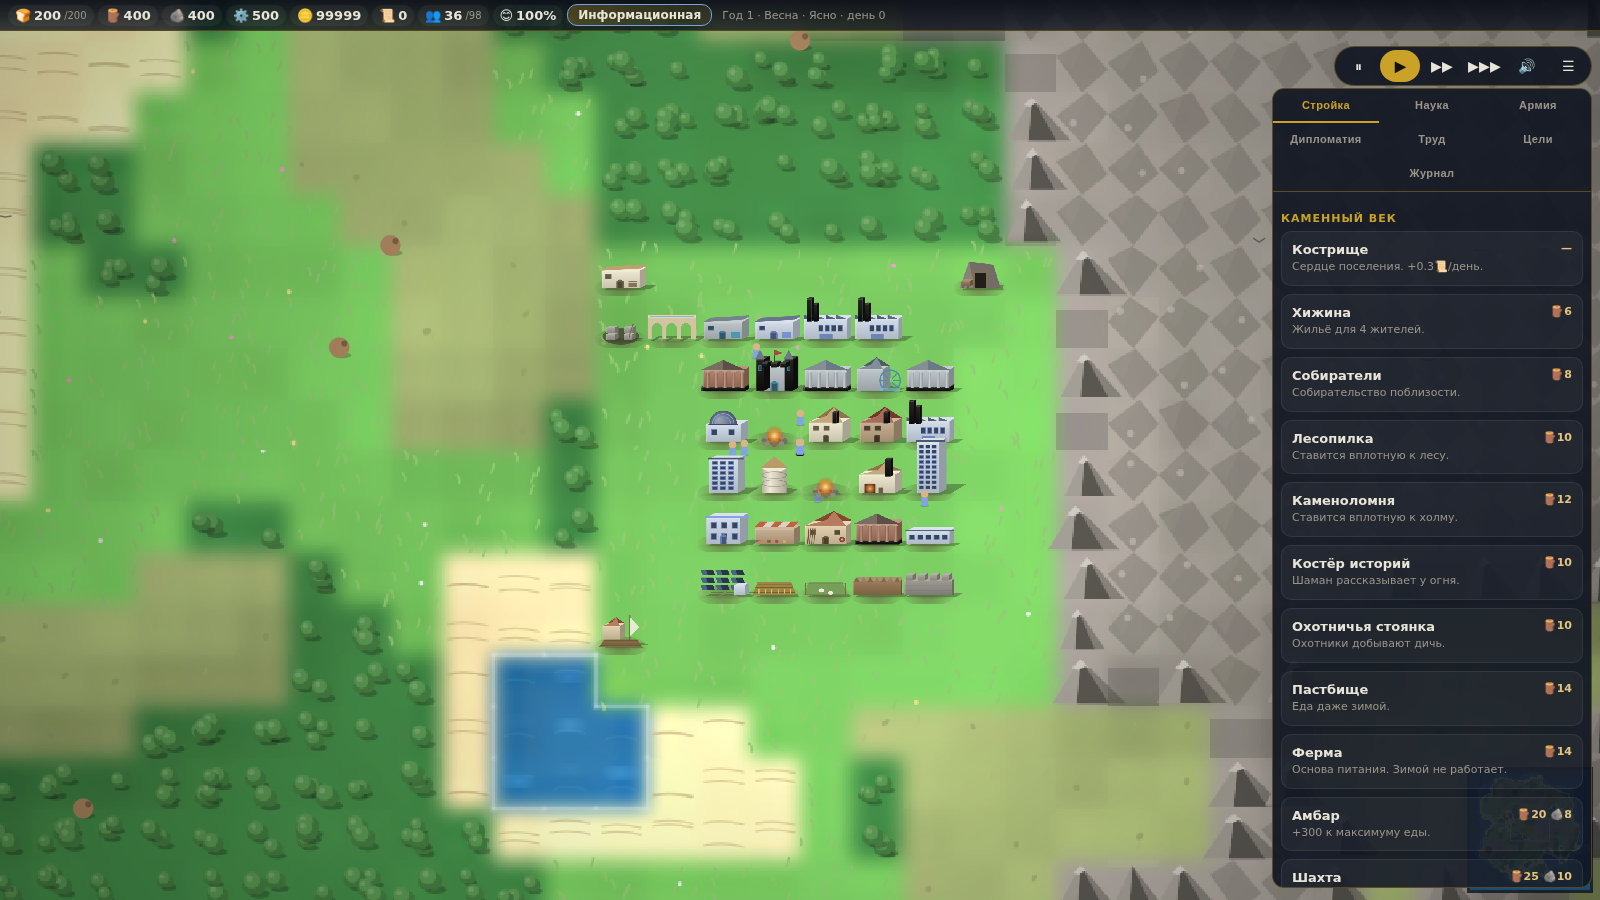
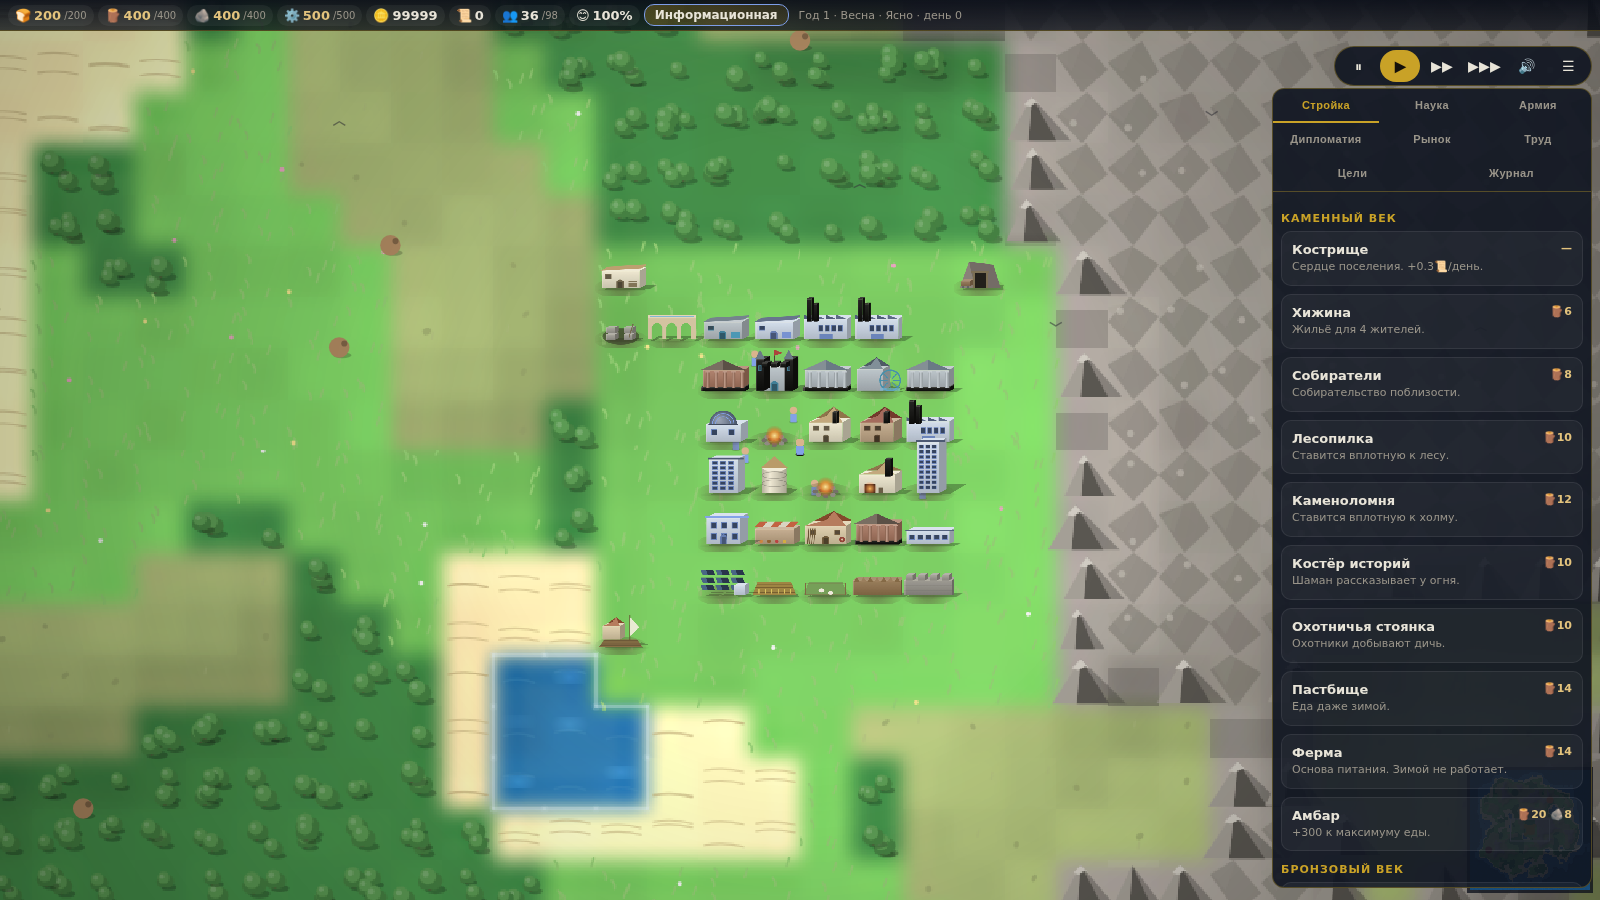
U16 ПОДКЛЮЧЁН: вкладка «Рынок» появилась в игре
Первая интеграция модуля в живую игру. В hud.js добавлены импорт, вкладка
между Дипломатией и Трудом, состояние панели в конструкторе, метод
panel_market() и вызов bindMarketPanel в конце bindPanel.

Панель намеренно использует собственный атрибут data-market: существующие
обработчики [data-sell]/[data-buy] вешаются через c.onclick и затёрли бы
обработчик панели, из-за чего любая кнопка продавала бы ровно 20 единиц
вместо выбранного лота.

Теперь в игре реально можно торговать: курсы, продажа и покупка на 20 и 100,
караваны и договоры. До этого здание рынка строилось, описание обещало обмен,
цель игры требовала его возвести — а кнопки «продать» не существовало.

Тесты 18/18, консоль чистая, 61 FPS.

Claude-Session: https://claude.ai/code/session_01A6YrcifM54qxcWsSEjEaM2

diff --git a/frontier.html b/frontier.html
@@ -5505,12 +5505,296 @@ ${s}`, "console");
     }
   };
 
+  // app/src/ui/panel_market.js
+  var TRADE_RES = Object.keys(MARKET_BASE);
+  var LOTS = [20, 100];
+  var BUY_MARKUP = 1.25;
+  var CARAVAN_PERIOD = 15;
+  var HIST_LEN = 12;
+  var FLAT = 0.02;
+  var RES_META = Object.fromEntries(RES.map((r) => [r.id, r]));
+  function createMarketPanelState() {
+    return { v: 1, hist: [] };
+  }
+  function observeMarket(state, sim2) {
+    if (!state || !sim2) return state;
+    if (!Array.isArray(state.hist)) state.hist = [];
+    const day = Math.floor(sim2.day || 0);
+    const last2 = state.hist[state.hist.length - 1];
+    if (last2 && last2.day === day) return state;
+    if (last2 && day < last2.day) state.hist.length = 0;
+    const p = {};
+    for (const id of TRADE_RES) p[id] = rawPrice(sim2, id);
+    state.hist.push({ day, p });
+    if (state.hist.length > HIST_LEN) state.hist.shift();
+    return state;
+  }
+  function rawPrice(sim2, resId) {
+    const prices = sim2 && sim2.market ? sim2.market.prices : null;
+    const p = prices ? prices[resId] : void 0;
+    return typeof p === "number" && isFinite(p) ? p : MARKET_BASE[resId];
+  }
+  function priceTrend(sim2, resId, state) {
+    const base = MARKET_BASE[resId];
+    const price = rawPrice(sim2, resId);
+    const ratio = base ? price / base : 1;
+    const out = {
+      price,
+      base,
+      ratio,
+      pct: Math.round((ratio - 1) * 100),
+      dir: ratio > 1 + FLAT ? 1 : ratio < 1 - FLAT ? -1 : 0,
+      recent: 0,
+      days: 0
+    };
+    const hist = state && Array.isArray(state.hist) ? state.hist : [];
+    if (hist.length >= 2) {
+      const first = hist[0];
+      const was = Number(first.p[resId]);
+      if (was > 0) {
+        const d = price / was - 1;
+        out.recent = d > FLAT ? 1 : d < -FLAT ? -1 : 0;
+        out.days = Math.max(1, Math.floor(sim2.day || 0) - first.day);
+      }
+    }
+    return out;
+  }
+  function marketQuote(sim2, resId, state) {
+    const meta = RES_META[resId] || { icon: "", ru: resId };
+    const rate = sim2.marketRate(resId);
+    const have = Math.floor(sim2.res[resId] || 0);
+    const cap = sim2.resCap && isFinite(sim2.resCap[resId]) ? sim2.resCap[resId] : Infinity;
+    const room = Math.max(0, Math.floor(cap - (sim2.res[resId] || 0)));
+    const gold = sim2.res.gold || 0;
+    const t = priceTrend(sim2, resId, state);
+    const lots = LOTS.map((n) => {
+      const income = n * rate;
+      const price = n * rate * BUY_MARKUP;
+      return {
+        n,
+        income,
+        price,
+        canSell: have >= n,
+        canBuy: gold >= price && room >= n,
+        // Причина всегда одна и самая важная: нет товара / нет денег / некуда класть.
+        buyWhy: room < n ? "склад полон" : gold < price ? "мало 🪙" : ""
+      };
+    });
+    return { id: resId, icon: meta.icon, ru: meta.ru, rate, buyRate: rate * BUY_MARKUP, have, cap, room, trend: t, lots };
+  }
+  function caravanStatus(sim2) {
+    if (!sim2.techs || !sim2.techs.has("trade")) {
+      return { active: false, markets: 0, daysLeft: 0, gold: 0, period: CARAVAN_PERIOD, boosts: [] };
+    }
+    const markets = sim2.countBuilding("market");
+    let gold = 0.6 * markets * sim2.globalMult("gold");
+    const boosts = [];
+    if (sim2.hasBuilding("shipyard")) {
+      gold *= 1.5;
+      boosts.push("Верфь ×1.5");
+    }
+    if (sim2.hasBuilding("train_station")) {
+      gold *= 2;
+      boosts.push("Вокзал ×2");
+    }
+    if (sim2.hasBuilding("airport")) {
+      gold *= 2;
+      boosts.push("Аэропорт ×2");
+    }
+    if (sim2.techs.has("internet")) {
+      gold *= 1.25;
+      boosts.push("Интернет ×1.25");
+    }
+    const daysLeft = Math.max(0, Math.ceil(sim2.caravanTimer ?? CARAVAN_PERIOD));
+    return { active: markets > 0, markets, daysLeft, gold, period: CARAVAN_PERIOD, boosts };
+  }
+  function tradeTreaties(sim2) {
+    const list = Array.isArray(sim2.treaties) ? sim2.treaties : [];
+    return list.map((t) => {
+      const f = typeof sim2.faction === "function" ? sim2.faction(t.b) : null;
+      const def = f && f.def || FACTIONS.find((x) => x.id === t.b) || null;
+      return {
+        fid: t.b,
+        name: def ? def.name : "Неизвестный сосед",
+        leader: def ? def.leader : "",
+        color: def ? def.color : "#c9a227",
+        atWar: (sim2.wars || []).some((w) => w.fid === t.b)
+      };
+    });
+  }
+  function marketBlocker(sim2) {
+    if (sim2.hasBuilding("market")) return null;
+    const def = BUILDINGS.market;
+    if (!sim2.techs.has("trade")) {
+      const tech = TECHS.find((t) => t.id === "trade");
+      return { kind: "tech", tech: tech ? tech.name : "Торговля", cost: sim2.techCost(tech), buildCost: def.cost };
+    }
+    const site = sim2.buildings.find((b) => b.id === "market" && !b.destroyed && !b.done);
+    if (site) {
+      const pct = Math.round(site.progress / site.buildDays * 100);
+      return { kind: "building", progress: Math.max(0, Math.min(99, pct)), buildCost: def.cost };
+    }
+    return { kind: "place", lack: sim2.lackCost(def.cost), buildCost: def.cost };
+  }
+  function renderMarketPanel(sim2, state = null) {
+    if (!sim2) return "";
+    observeMarket(state, sim2);
+    const blocker = marketBlocker(sim2);
+    if (blocker) return _renderClosed(sim2, blocker);
+    let html = _renderHeader(sim2);
+    html += '<h4 class="group">Курсы и сделки</h4>';
+    for (const id of TRADE_RES) html += _renderRow(marketQuote(sim2, id, state));
+    html += _renderTrade(sim2);
+    return html;
+  }
+  function _renderClosed(sim2, b) {
+    const cost = _costStr(sim2, b.buildCost);
+    let head = "";
+    if (b.kind === "tech") {
+      head = `<div class="card"><div class="ttl"><span>Рынок закрыт</span><span class="cost">📜${b.cost}</span></div>
+      <div class="desc">Обмен ресурсов открывает технология «${b.tech}» на вкладке «Наука».</div>
+      <div class="reason">Сначала изучите «${b.tech}», затем постройте Рынок: ${cost}</div></div>`;
+    } else if (b.kind === "building") {
+      head = `<div class="card"><div class="ttl"><span>Рынок строится</span><span class="cost">${b.progress}%</span></div>
+      <div class="desc">Торги откроются, как только каменщики закончат. Приставьте больше рабочих на вкладке «Труд» — приоритет «Стройка».</div></div>`;
+    } else {
+      head = `<div class="card"><div class="ttl"><span>Рынка нет</span><span class="cost">${cost}</span></div>
+      <div class="desc">Постройте Рынок на вкладке «Стройка»: особой клетки он не требует, ставится где угодно в поселении.</div>
+      ${b.lack ? `<div class="reason">Не хватает: ${b.lack}</div>` : '<div class="desc">Ресурсов на постройку хватает.</div>'}</div>`;
+    }
+    return head + `<div class="card"><div class="ttl"><span>Что даёт Рынок</span></div>
+    <div class="kv"><span>Продажа</span><span>Излишки 🍞🪵🪨⚙ в 🪙</span></div>
+    <div class="kv"><span>Покупка</span><span>Нехватка за 🪙 (дороже на 25%)</span></div>
+    <div class="kv"><span>Караваны</span><span>🪙 раз в ${CARAVAN_PERIOD} дней</span></div>
+    <div class="kv"><span>Договоры</span><span>Снимают наценку 30%</span></div></div>`;
+  }
+  function _renderHeader(sim2) {
+    const treaties = tradeTreaties(sim2);
+    const markets = sim2.countBuilding("market");
+    const treasury = sim2.hasBuilding("treasury");
+    return `<div class="card"><div class="ttl"><span>Рынок</span><span class="cost">🪙 ${_gold(sim2.res.gold)}</span></div>
+    <div class="desc">Курс — золото за одну единицу товара. Покупка дороже продажи на 25%: посредник тоже ест.</div>
+    <div class="kv"><span>Рынков в поселении</span><span>${markets}</span></div>
+    <div class="kv"><span>Торговые договоры</span><span>${treaties.length ? `${treaties.length} · курс без наценки` : "нет · курс хуже на 30%"}</span></div>
+    <div class="kv"><span>Сокровищница</span><span>${treasury ? "есть · курс +20%" : "нет"}</span></div></div>`;
+  }
+  function _renderRow(q) {
+    const t = q.trend;
+    const arrow = t.dir > 0 ? "▲" : t.dir < 0 ? "▼" : "=";
+    const col = t.dir > 0 ? "var(--good)" : t.dir < 0 ? "var(--bad)" : "var(--warn)";
+    const sign = t.pct > 0 ? "+" : "";
+    const width = Math.max(0, Math.min(100, (t.ratio - 0.5) / 1.5 * 100));
+    const recent = t.days ? ` · за ${t.days} дн. ${t.recent > 0 ? "дорожает" : t.recent < 0 ? "дешевеет" : "стоит"}` : "";
+    const stock = isFinite(q.cap) ? `${q.have}/${q.cap}` : `${q.have}`;
+    let btns = '<div class="btns" style="display:flex;gap:8px;margin-top:8px">';
+    for (const l of q.lots) {
+      btns += `<button class="btn ${l.canSell ? "" : "disabled"}" style="flex:1;padding:8px;font-size:12px"
+      data-market="sell:${q.id}:${l.n}"${l.canSell ? "" : " disabled"}>Продать ${l.n} → +${_gold(l.income)}🪙</button>`;
+    }
+    btns += '</div><div class="btns" style="display:flex;gap:8px;margin-top:6px">';
+    for (const l of q.lots) {
+      btns += `<button class="btn ${l.canBuy ? "" : "disabled"}" style="flex:1;padding:8px;font-size:12px"
+      data-market="buy:${q.id}:${l.n}"${l.canBuy ? "" : " disabled"}>Купить ${l.n} → −${_gold(l.price)}🪙</button>`;
+    }
+    btns += "</div>";
+    const big = q.lots[q.lots.length - 1];
+    const why = [];
+    if (!big.canSell) why.push(`продать ${big.n}: в запасе ${q.have}`);
+    if (!big.canBuy) why.push(`купить ${big.n}: ${big.buyWhy}`);
+    return `<div class="card"><div class="ttl"><span>${q.icon} ${q.ru}</span>
+      <span class="cost" style="color:${col}">${_rate(q.rate)}🪙 ${arrow} ${sign}${t.pct}% к базе</span></div>
+    <div class="desc">В запасе ${stock} · продажа ${_rate(q.rate)}🪙 · покупка ${_rate(q.buyRate)}🪙${recent}</div>
+    <div class="relbar"><div style="width:${width.toFixed(0)}%;background:${col}"></div></div>
+    ${btns}
+    ${why.length ? `<div class="reason">Недоступно: ${why.join(" · ")}</div>` : ""}</div>`;
+  }
+  function _renderTrade(sim2) {
+    const car = caravanStatus(sim2);
+    const treaties = tradeTreaties(sim2);
+    if (!car.active && !treaties.length) return "";
+    let html = '<h4 class="group">Караваны и договоры</h4>';
+    if (car.active) {
+      html += `<div class="card"><div class="ttl"><span>🐫 Караван в пути</span><span class="cost">+${_gold(car.gold)}🪙</span></div>
+      <div class="desc">Прибудет через ${car.daysLeft} дн., затем уходит снова: круг — ${car.period} дней.</div>
+      <div class="kv"><span>Считается с рынков</span><span>${car.markets}</span></div>
+      ${car.boosts.length ? `<div class="kv"><span>Ускорители</span><span>${car.boosts.join(" · ")}</span></div>` : ""}</div>`;
+    }
+    for (const t of treaties) {
+      html += `<div class="card"><div class="ttl"><span><span style="color:${t.color}">⬤</span> ${t.name}</span>
+        <span class="cost">${t.atWar ? "война" : "торговля"}</span></div>
+      <div class="desc">${t.leader ? t.leader + " · " : ""}Договор снимает наценку 30% на все курсы.</div>
+      ${t.atWar ? '<div class="reason">Идёт война: договор висит на волоске.</div>' : ""}</div>`;
+    }
+    return html;
+  }
+  function handleMarketAction(sim2, spec) {
+    const parts = String(spec || "").split(":");
+    const [kind, resId, raw] = parts;
+    if (parts.length !== 3 || kind !== "sell" && kind !== "buy") return { ok: false, reason: "Неизвестная операция" };
+    if (!TRADE_RES.includes(resId)) return { ok: false, reason: "Этот товар на рынке не торгуется" };
+    const n = Number(raw);
+    if (!isFinite(n) || n <= 0) return { ok: false, reason: "Неверный объём сделки" };
+    const goldBefore = sim2.res.gold;
+    const resBefore = sim2.res[resId];
+    const r = kind === "sell" ? sim2.marketSell(resId, n) : sim2.marketBuy(resId, n);
+    if (!r.ok) return { ok: false, reason: r.reason, kind, resId, amount: n };
+    return {
+      ok: true,
+      kind,
+      resId,
+      amount: Math.abs(sim2.res[resId] - resBefore),
+      gold: Math.abs(sim2.res.gold - goldBefore)
+    };
+  }
+  function bindMarketPanel(root, sim2, opts = {}) {
+    if (!root || typeof root.querySelectorAll !== "function" || !sim2) return 0;
+    const nodes = root.querySelectorAll("[data-market]");
+    let bound = 0;
+    for (const el of Array.from(nodes)) {
+      const spec = el.dataset && el.dataset.market || (typeof el.getAttribute === "function" ? el.getAttribute("data-market") : "");
+      el.onclick = () => {
+        const r = handleMarketAction(sim2, spec);
+        if (!r.ok) {
+          if (opts.toast) opts.toast(r.reason, "warn");
+          if (opts.audio) opts.audio.play("deny");
+        } else {
+          const meta = RES_META[r.resId];
+          const icon = meta ? meta.icon : "";
+          if (opts.toast) {
+            opts.toast(r.kind === "sell" ? `Продано ${r.amount}${icon}: +${_gold(r.gold)}🪙` : `Куплено ${r.amount}${icon}: −${_gold(r.gold)}🪙`, "good");
+          }
+          if (opts.audio) opts.audio.play("coin");
+        }
+        if (opts.refresh) opts.refresh();
+        return r;
+      };
+      bound++;
+    }
+    return bound;
+  }
+  function _rate(v) {
+    return (Math.round(v * 1e3) / 1e3).toFixed(3);
+  }
+  function _gold(v) {
+    const a = Math.abs(v);
+    if (a >= 100) return String(Math.round(v));
+    return (Math.round(v * 10) / 10).toFixed(1);
+  }
+  function _costStr(sim2, cost) {
+    const m = typeof sim2.costMult === "function" ? sim2.costMult() : 1;
+    return Object.entries(cost || {}).map(([r, v]) => {
+      const meta = RES_META[r];
+      return `${meta ? meta.icon : r}${Math.ceil(v * m)}`;
+    }).join(" ") || "—";
+  }
+
   // app/src/ui/hud.js
   var TABS = [
     { id: "build", ru: "Стройка", ic: "🏗" },
     { id: "research", ru: "Наука", ic: "📜" },
     { id: "army", ru: "Армия", ic: "⚔" },
     { id: "diplo", ru: "Дипломатия", ic: "🤝" },
+    { id: "market", ru: "Рынок", ic: "⚖" },
     { id: "labor", ru: "Труд", ic: "👷" },
     { id: "goals", ru: "Цели", ic: "🎯" },
     { id: "log", ru: "Журнал", ic: "📖" }
@@ -5522,6 +5806,7 @@ ${s}`, "console");
       this.saveSys = saveSys2;
       this.audio = audio2;
       this.tab = "build";
+      this.marketState = createMarketPanelState();
       this.speed = 1;
       this.el = {};
       for (const id of [
@@ -5858,6 +6143,11 @@ ${out}`;
           this.renderPanel();
         };
       });
+      bindMarketPanel(root, this.sim, {
+        toast: (t, k) => this.toast(t, k),
+        audio: this.audio,
+        refresh: () => this.renderPanel()
+      });
     }
     costStr(cost) {
       return Object.entries(cost || {}).map(([r, v]) => {
@@ -5998,6 +6288,9 @@ ${out}`;
       </div>`;
       }
       return html;
+    }
+    panel_market() {
+      return renderMarketPanel(this.sim, this.marketState);
     }
     panel_log() {
       const items = [...this.sim.log].reverse();

diff --git a/app/src/ui/hud.js b/app/src/ui/hud.js
@@ -1,12 +1,14 @@
 // ui/hud.js — весь DOM-интерфейс (presentation-слой).
 import { RES, ERAS, TECHS, TECH_ERA_IDX, BUILDINGS, UNITS, TRAIN_COST, SPIRE_STAGES, OBJECTIVES, FACTIONS, WEATHER, SEASONS, GREAT_TYPES } from '../core/data.js';
 import { FileSave } from '../save/saveSystem.js';
+import { renderMarketPanel, bindMarketPanel, createMarketPanelState } from './panel_market.js';
 
 const TABS = [
   { id: 'build', ru: 'Стройка', ic: '🏗' },
   { id: 'research', ru: 'Наука', ic: '📜' },
   { id: 'army', ru: 'Армия', ic: '⚔' },
   { id: 'diplo', ru: 'Дипломатия', ic: '🤝' },
+  { id: 'market', ru: 'Рынок', ic: '⚖' },
   { id: 'labor', ru: 'Труд', ic: '👷' },
   { id: 'goals', ru: 'Цели', ic: '🎯' },
   { id: 'log', ru: 'Журнал', ic: '📖' },
@@ -19,6 +21,7 @@ export class Hud {
     this.saveSys = saveSys;
     this.audio = audio;
     this.tab = 'build';
+    this.marketState = createMarketPanelState();
     this.speed = 1;
     this.el = {};
     for (const id of ['topbar', 'rFood', 'rWood', 'rStone', 'rSteel', 'rGold', 'rKnow', 'rPop', 'rHappy', 'eraBadge', 'dateBox',
@@ -251,6 +254,14 @@ export class Hud {
         this.renderPanel();
       };
     });
+    // Панель рынка держит собственный атрибут data-market: если бы она пользовалась
+    // data-sell/data-buy выше, тамошний c.onclick затёр бы её обработчик и любая
+    // кнопка продавала бы ровно 20 единиц вместо выбранного лота.
+    bindMarketPanel(root, this.sim, {
+      toast: (t, k) => this.toast(t, k),
+      audio: this.audio,
+      refresh: () => this.renderPanel(),
+    });
   }
 
   costStr(cost) {
@@ -396,6 +407,8 @@ export class Hud {
     }
     return html;
   }
+
+  panel_market() { return renderMarketPanel(this.sim, this.marketState); }
 
   panel_log() {
     const items = [...this.sim.log].reverse();

diff --git a/app/src/core/systems/army.js b/app/src/core/systems/army.js
@@ -122,10 +122,14 @@ export const ROUND_VAR = 0.45;     // разброс урона за раунд:
 export const MAX_ROUNDS = 10;
 export const ROUT_BASE = 0.5;      // при таких потерях сторона бежит
 export const ROUT_JITTER = 0.12;   // стойкость конкретного отряда гуляет
-// Переводит табличные «+7 эффективной силы» в множитель. 90 подобрано стендом
-// (200 боёв на пару): контр-юнит выигрывает 60–75%, а не 95% и не 52%.
-export const COUNTER_DIVISOR = 90;
-export const HILL_RANGE_MULT = 1.25;   // U21: стрелки с холма
+// Переводит табличные «+7 эффективной силы» в множитель. 70 подобрано стендом
+// на 4000 боёв: контра даёт +10% силы против «своей» цели, что выливается в
+// winrate 66% — заметно, но не абсолютно (при 50 было бы 78%, при 120 — 58%).
+export const COUNTER_DIVISOR = 70;
+// U21. 1.15 — не «чуть-чуть»: в модели на истощение +15% силы стрелков дают
+// стороне на холме ~74% побед (стенд в тесте). Больше делать нельзя — рельеф
+// начнёт решать бой сильнее состава.
+export const HILL_RANGE_MULT = 1.15;
 export const FOREST_RANGE_MULT = 0.85; // в лесу не видно цели
 export const FOREST_CAV_MULT = 0.9;    // и не разогнаться
 export const CAPTURE_CHANCE = 0.5;     // U23: шанс, что брошенная машина цела
